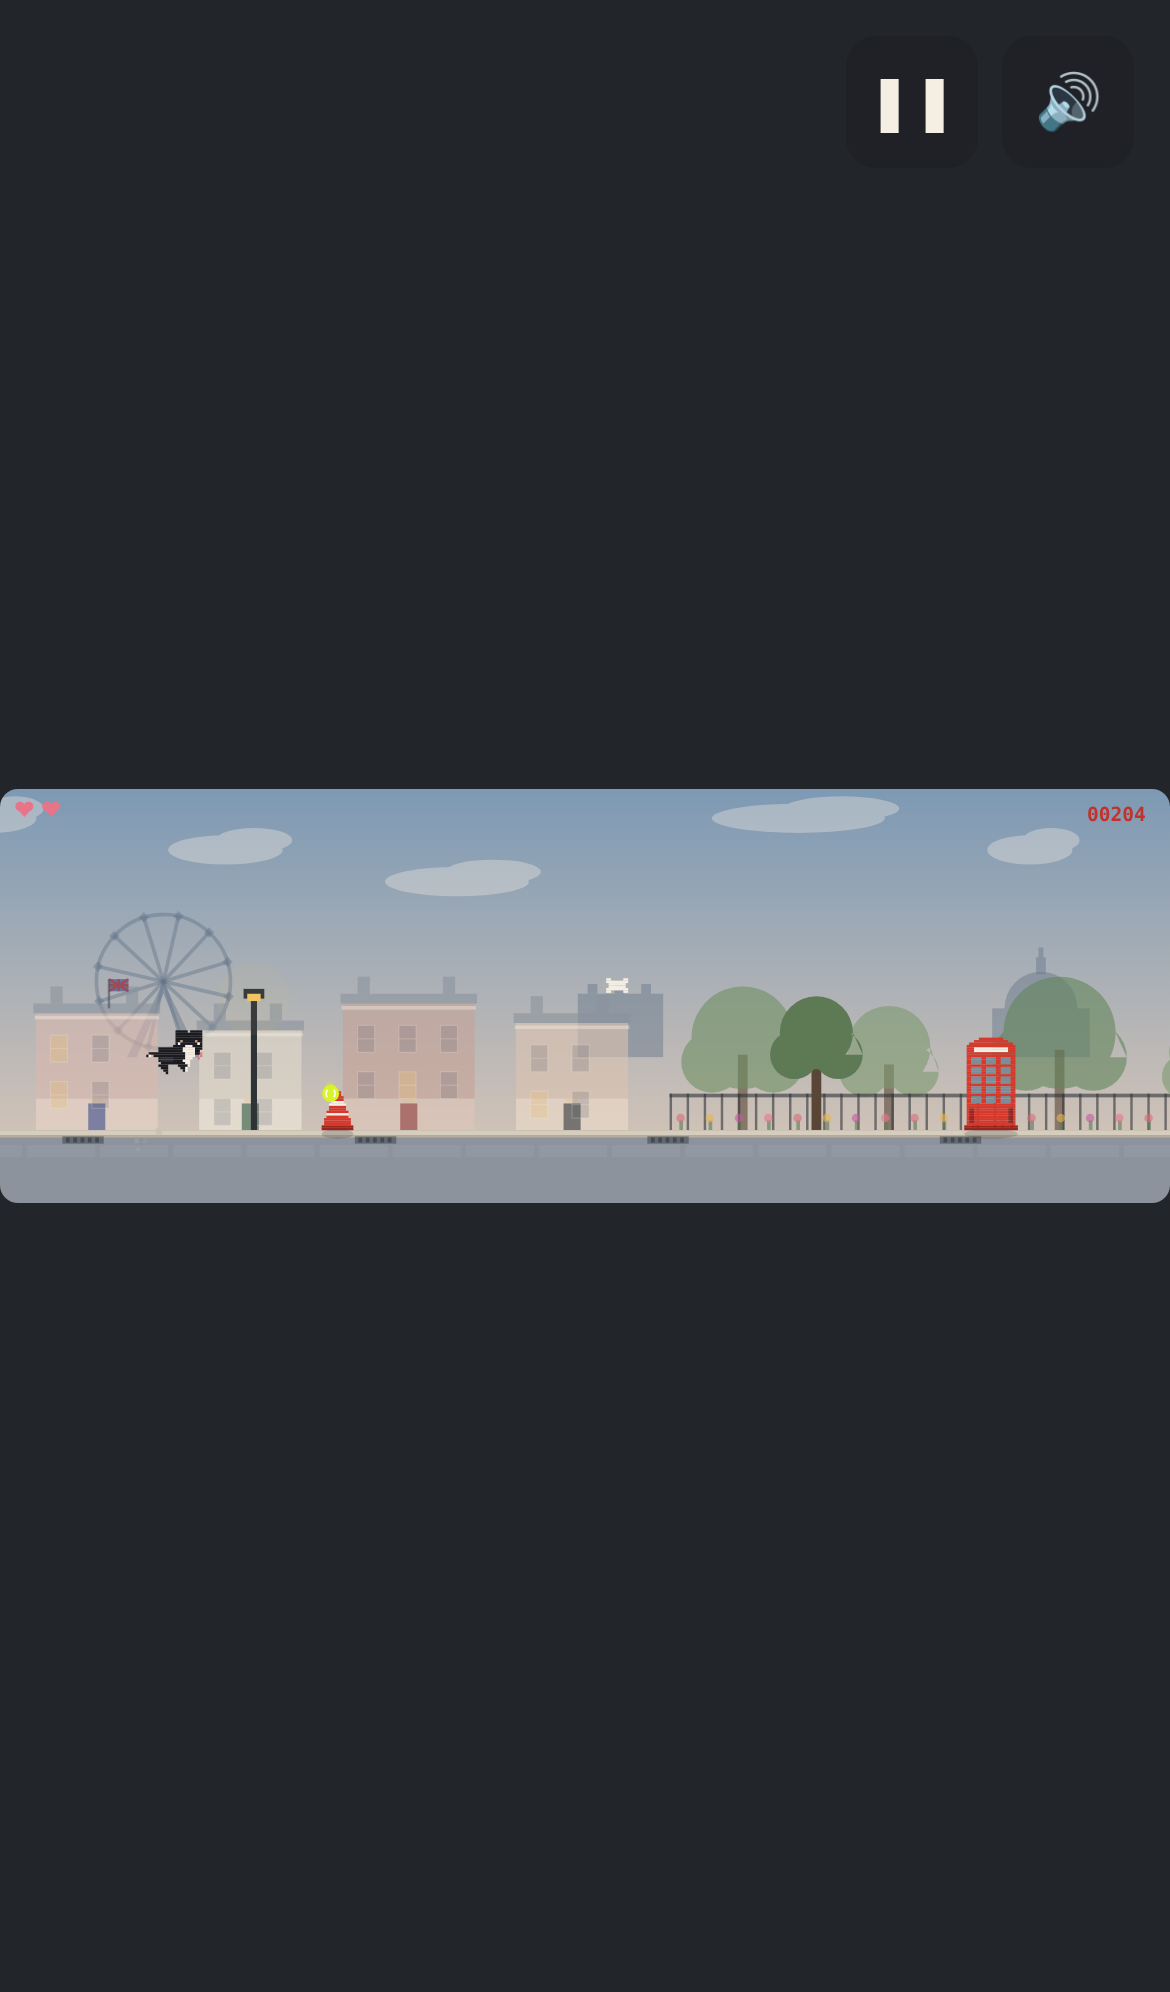
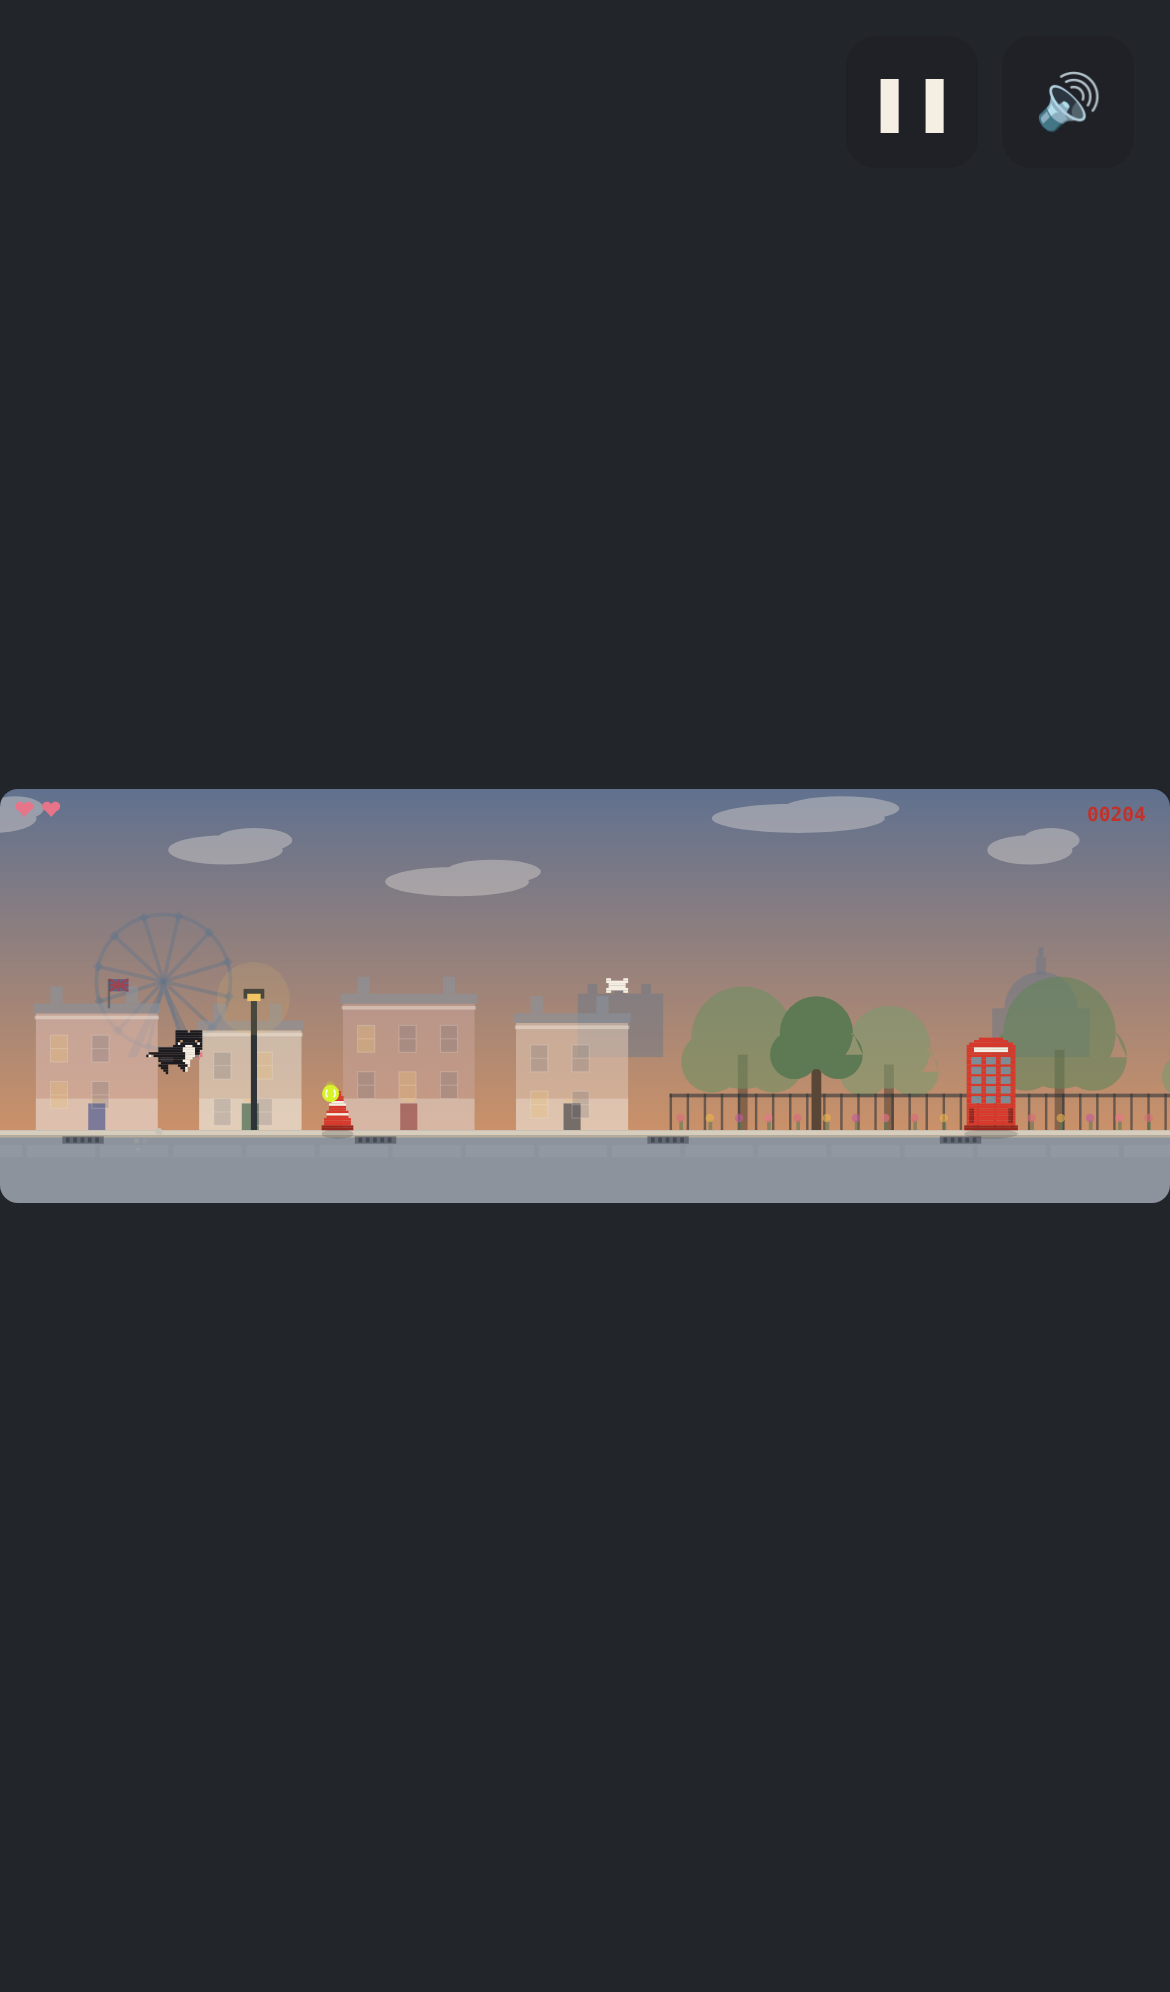
feat: much faster night cycle, remove red roundel/bus-stop signs

Changed region(s): [[0.0, 0.3735, 1.0, 0.5914]]

diff --git a/src/world/parallax.js b/src/world/parallax.js
@@ -166,26 +166,29 @@ function drawFurniture(ctx, x, variant, t, duskT) {
       ctx.fill();
       break;
     }
-    case 2: { // Underground roundel
+    case 2: { // Street clock
       ctx.fillStyle = '#2E3338';
       ctx.fillRect(x + 14, baseY - 92, 4, 92);
-      ctx.fillStyle = '#C0322B';
       ctx.beginPath();
-      ctx.arc(x + 16, baseY - 96, 16, 0, Math.PI * 2);
+      ctx.arc(x + 16, baseY - 96, 14, 0, Math.PI * 2);
       ctx.fill();
       ctx.fillStyle = '#F5EFE3';
       ctx.beginPath();
-      ctx.arc(x + 16, baseY - 96, 9, 0, Math.PI * 2);
+      ctx.arc(x + 16, baseY - 96, 10, 0, Math.PI * 2);
       ctx.fill();
-      ctx.fillStyle = '#2B4B9B';
-      ctx.fillRect(x - 4, baseY - 100, 40, 8);
+      ctx.strokeStyle = '#2E3338';
+      ctx.lineWidth = 2;
+      ctx.beginPath();
+      ctx.moveTo(x + 16, baseY - 96); ctx.lineTo(x + 16, baseY - 103);
+      ctx.moveTo(x + 16, baseY - 96); ctx.lineTo(x + 21, baseY - 94);
+      ctx.stroke();
       break;
     }
     case 3: { // Bollards + bus stop
       ctx.fillStyle = '#2E3338';
       for (let i = 0; i < 3; i++) ctx.fillRect(x + i * 26, baseY - 22, 8, 22);
       ctx.fillRect(x + 90, baseY - 96, 4, 96);
-      ctx.fillStyle = '#C0322B';
+      ctx.fillStyle = '#4A5560';
       ctx.fillRect(x + 82, baseY - 104, 20, 12);
       break;
     }

diff --git a/src/game.js b/src/game.js
@@ -429,8 +429,8 @@ export class Game {
   // --- Rendering ---
   render(ctx, alpha) {
     const speedFrac = (this.speed - C.SPEED_START) / (C.SPEED_MAX - C.SPEED_START);
-    // Day/night cycle: night falls by ~500 points, dawn returns by ~1000, repeating
-    const dayPhase = (this.score % 1000) / 1000;
+    // Day/night cycle: night falls by ~250 points, dawn returns by ~500, repeating
+    const dayPhase = (this.score % 500) / 500;
     const duskT = 0.5 - 0.5 * Math.cos(dayPhase * Math.PI * 2);
 
     ctx.save();
